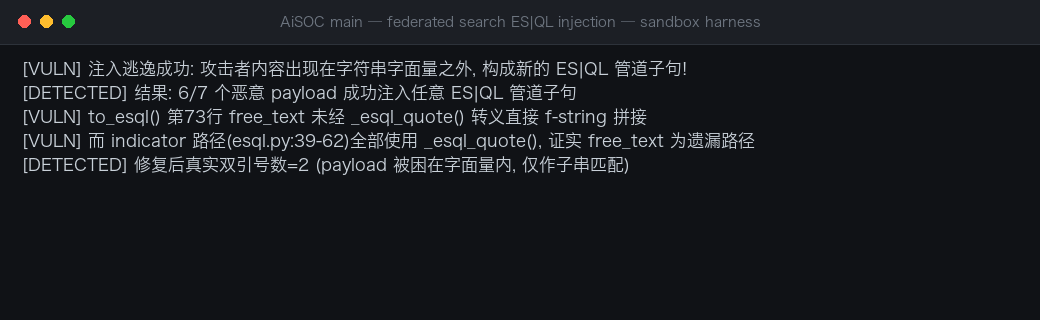
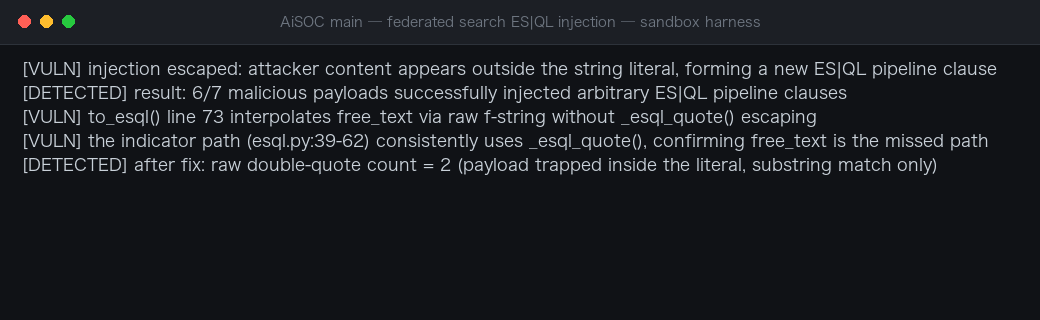
AiSOC advisory: translate harness output to English for consistency

Changed region(s): [[0.0923, 0.3438, 0.9538, 0.5625], [0.0615, 0.1875, 0.9538, 0.3125]]

diff --git a/AiSOC_Federated_Search_ESQL_Injection.md b/AiSOC_Federated_Search_ESQL_Injection.md
@@ -71,11 +71,11 @@ payload = '%" OR 1=1 //'
 Harness results:
 
 ```
-[VULN] 注入逃逸成功: 攻击者内容出现在字符串字面量之外, 构成新的 ES|QL 管道子句!
-[DETECTED] 结果: 6/7 个恶意 payload 成功注入任意 ES|QL 管道子句
-[VULN] to_esql() 第73行 free_text 未经 _esql_quote() 转义直接 f-string 拼接
-[VULN] 而 indicator 路径(esql.py:39-62)全部使用 _esql_quote(), 证实 free_text 为遗漏路径
-[DETECTED] 修复后真实双引号数=2 (payload 被困在字面量内, 仅作子串匹配)
+[VULN] injection escaped: attacker content appears outside the string literal, forming a new ES|QL pipeline clause
+[DETECTED] result: 6/7 malicious payloads successfully injected arbitrary ES|QL pipeline clauses
+[VULN] to_esql() line 73 interpolates free_text via raw f-string without _esql_quote() escaping
+[VULN] the indicator path (esql.py:39-62) consistently uses _esql_quote(), confirming free_text is the missed path
+[DETECTED] after fix: raw double-quote count = 2 (payload trapped inside the literal, substring match only)
 ```
 
 ![Verification output](AiSOC_federated_search_esql_injection_poc.png)
